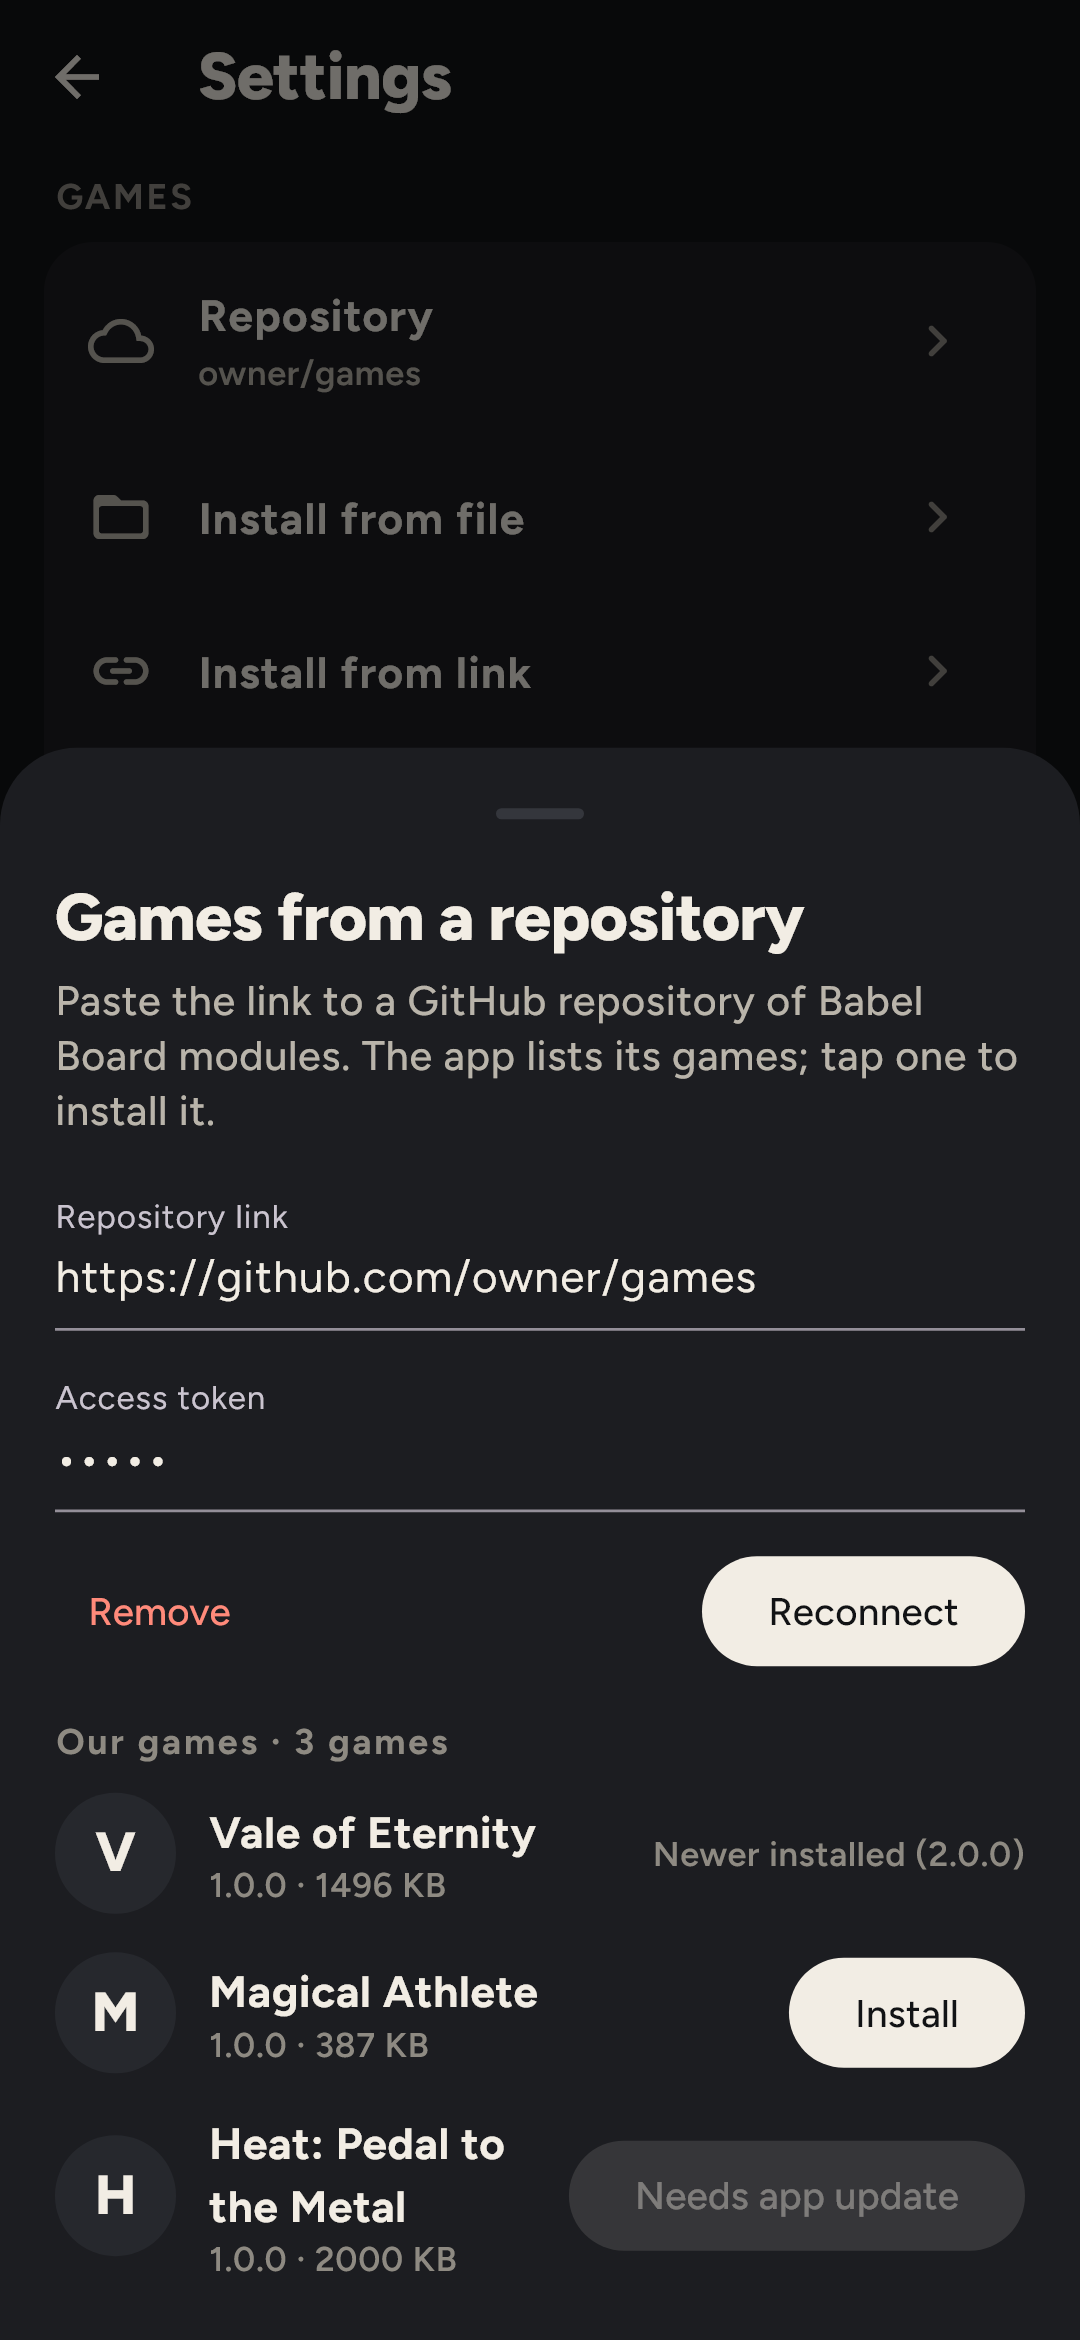
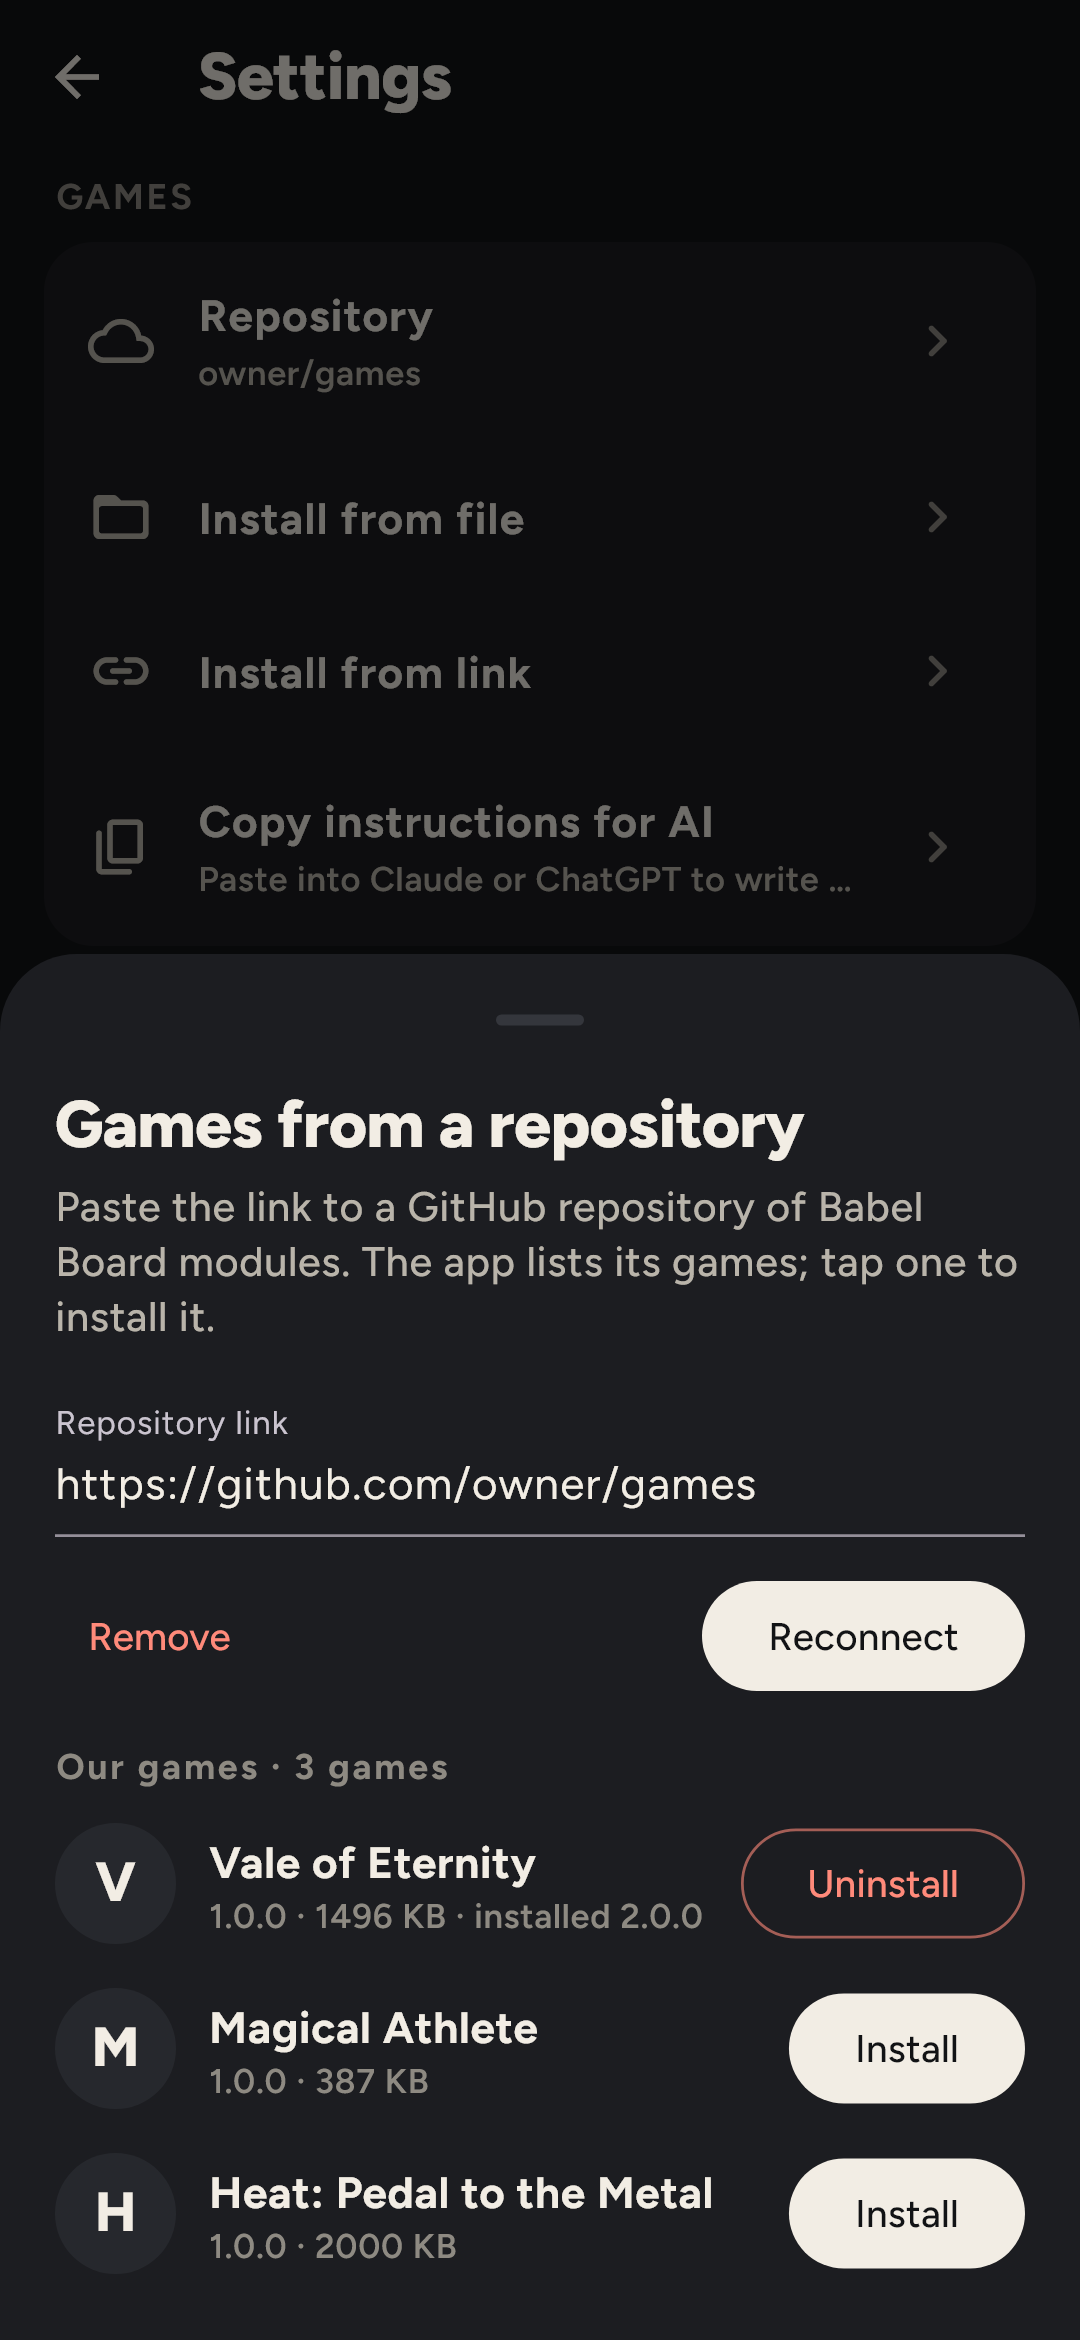
feat: repositories need no token; rows read Install, Update or Uninstall
The repository sheet is just the link and Connect. A game's row has one button: Install,
then Update when the repository lists a newer version, else Uninstall (with a confirm).
The row also says which version is installed. Docs no longer mention tokens. 3.1.1.

Changed region(s): [[0.0306, 0.3432, 0.9472, 0.7487], [0.0611, 0.6863, 0.9472, 0.9671], [0.0917, 0.8423, 0.1222, 0.9671]]

diff --git a/lib/library/library_screen.dart b/lib/library/library_screen.dart
@@ -247,8 +247,6 @@ class _RepoSheet extends StatefulWidget {
 
 class _RepoSheetState extends State<_RepoSheet> {
   late final _url = TextEditingController(text: _initialUrl());
-  late final _token = TextEditingController(text: widget.lib.repo?.token ?? '');
-  late bool _showToken = widget.lib.repo?.token != null;
   String? _error;
   bool _busy = false;
 
@@ -265,7 +263,6 @@ class _RepoSheetState extends State<_RepoSheet> {
   @override
   void dispose() {
     _url.dispose();
-    _token.dispose();
     super.dispose();
   }
 
@@ -275,7 +272,7 @@ class _RepoSheetState extends State<_RepoSheet> {
       _error = null;
     });
     try {
-      await widget.lib.connectRepo(_url.text, token: _token.text.trim());
+      await widget.lib.connectRepo(_url.text);
     } on RepoException catch (e) {
       if (mounted) setState(() => _error = e.message);
     } finally {
@@ -313,26 +310,6 @@ class _RepoSheetState extends State<_RepoSheet> {
               hintText: 'https://github.com/you/your-games',
             ),
           ),
-          if (_showToken) ...[
-            const SizedBox(height: 10),
-            TextField(
-              key: const Key('repoToken'),
-              controller: _token,
-              obscureText: true,
-              decoration: const InputDecoration(
-                labelText: 'Access token',
-                hintText: 'only for a private repository',
-              ),
-            ),
-          ] else
-            Align(
-              alignment: Alignment.centerLeft,
-              child: TextButton(
-                key: const Key('repoPrivate'),
-                onPressed: () => setState(() => _showToken = true),
-                child: const Text('Private repository? Add a token'),
-              ),
-            ),
           if (_error != null) ...[
             const SizedBox(height: 8),
             Text(_error!, style: T.caption.copyWith(color: p.danger, fontSize: 13.5)),
@@ -493,22 +470,24 @@ class _RepoRow extends StatelessWidget {
   Widget build(BuildContext context) {
     final p = context.pal;
     final have = lib.installedById(entry.id);
+    final busy = lib.busy != null;
+    // One button per row: Install, then Update when the repository has a newer version,
+    // else Uninstall.
     final Widget action;
     if (entry.needsAppUpdate) {
       action = const FilledButton(onPressed: null, child: Text('Needs app update'));
-    } else if (have != null && compareVersions(have.version, entry.version) >= 0) {
-      // Say which version is here: the repository may list an older one than the installed.
-      final newer = compareVersions(have.version, entry.version) > 0;
-      action = Text(
-        newer ? 'Newer installed (${have.version})' : '${have.version} installed',
-        style: T.caption.copyWith(color: p.muted),
-      );
+    } else if (have == null) {
+      action = FilledButton(onPressed: busy ? null : () => _install(context), child: const Text('Install'));
+    } else if (compareVersions(have.version, entry.version) < 0) {
+      action = FilledButton(onPressed: busy ? null : () => _install(context), child: const Text('Update'));
     } else {
-      action = FilledButton(
-        onPressed: lib.busy != null ? null : () => _install(context),
-        child: Text(have == null ? 'Install' : 'Update'),
+      action = OutlinedButton(
+        onPressed: busy ? null : () => _uninstall(context),
+        style: OutlinedButton.styleFrom(foregroundColor: p.danger, side: BorderSide(color: p.danger.withValues(alpha: 0.6))),
+        child: const Text('Uninstall'),
       );
     }
+    final installed = have == null ? '' : ' · installed ${have.version}';
     final size = entry.size > 0 ? ' · ${(entry.size / 1024).round()} KB' : '';
     return Padding(
       padding: const EdgeInsets.symmetric(vertical: 6),
@@ -521,7 +500,7 @@ class _RepoRow extends StatelessWidget {
               crossAxisAlignment: CrossAxisAlignment.start,
               children: [
                 Text(entry.name, style: const TextStyle(fontSize: 16, fontWeight: FontWeight.w700)),
-                Text('${entry.version}$size', style: T.caption.copyWith(color: p.muted)),
+                Text('${entry.version}$size$installed', style: T.caption.copyWith(color: p.muted)),
               ],
             ),
           ),
@@ -530,6 +509,16 @@ class _RepoRow extends StatelessWidget {
         ],
       ),
     );
+  }
+
+  Future<void> _uninstall(BuildContext context) async {
+    final ok = await confirm(
+      context,
+      'Uninstall ${entry.name}?',
+      'Removes the game and everything you tracked in it.',
+      'Uninstall',
+    );
+    if (ok) await lib.uninstall(entry.id);
   }
 
   Future<void> _install(BuildContext context) async {

diff --git a/test/library/library_screen_test.dart b/test/library/library_screen_test.dart
@@ -330,7 +330,7 @@ void main() {
     );
     await tester.tap(find.widgetWithText(FilledButton, 'Add repository'));
     await tester.pumpAndSettle();
-    expect(find.byKey(const Key('repoToken')), findsNothing, reason: 'the token is folded away until asked for');
+    expect(find.textContaining('token'), findsNothing, reason: 'no token anywhere: just the link');
     await tester.enterText(find.byKey(const Key('repoUrl')), 'github.com/you/games');
     await tester.tap(find.byKey(const Key('connectRepo')));
     await settleAsync(tester);
@@ -342,17 +342,44 @@ void main() {
     await tester.tap(find.descendant(of: sheet, matching: find.widgetWithText(FilledButton, 'Install')).first);
     await settleAsync(tester);
     expect(library(tester).installedById('mini'), isNotNull);
-    expect(find.descendant(of: sheet, matching: find.text('1.0.0 installed')), findsOneWidget);
+    // Installed and current: the button is now Uninstall; the row says what is installed.
+    expect(find.descendant(of: sheet, matching: find.widgetWithText(FilledButton, 'Install')), findsNothing);
+    final uninstall = find.descendant(of: sheet, matching: find.widgetWithText(OutlinedButton, 'Uninstall')).first;
+    expect(uninstall, findsOneWidget);
+    expect(find.descendant(of: sheet, matching: find.textContaining('installed 1.0.0')), findsOneWidget);
+    await tester.tap(uninstall);
+    await tester.pumpAndSettle();
+    await tester.tap(find.widgetWithText(FilledButton, 'Uninstall'));
+    await settleAsync(tester);
+    expect(library(tester).installedById('mini'), isNull);
+    expect(find.descendant(of: sheet, matching: find.widgetWithText(FilledButton, 'Install')), findsWidgets);
   });
 
-  testWidgets('the repository sheet reports a link with no index, and unfolds the token field', (tester) async {
+  testWidgets('a newer version in the repository turns the button into Update', (tester) async {
+    await pumpLibrary(
+      tester,
+      preinstalled: [miniZip()],
+      repoIndex: {
+        'name': 'Our games',
+        'modules': [
+          {'id': 'mini', 'name': 'Mini Game', 'version': '1.1.0', 'minAppVersion': '3.0.0', 'zip': 'mini.zip', 'size': 1},
+        ],
+      },
+      zips: {'mini.zip': miniZip(version: '1.1.0')},
+    );
+    await settleAsync(tester);
+    expect(find.widgetWithText(FilledButton, 'Update'), findsOneWidget);
+    await tester.tap(find.widgetWithText(FilledButton, 'Update'));
+    await settleAsync(tester);
+    expect(library(tester).installedById('mini')?.version, '1.1.0');
+    expect(find.widgetWithText(OutlinedButton, 'Uninstall'), findsOneWidget);
+  });
+
+  testWidgets('the repository sheet reports a link with no index, and a non-link', (tester) async {
     await pumpLibrary(tester);
     await tester.tap(find.widgetWithText(FilledButton, 'Add repository'));
     await tester.pumpAndSettle();
-    await tester.tap(find.byKey(const Key('repoPrivate')));
-    await tester.pumpAndSettle();
     await tester.enterText(find.byKey(const Key('repoUrl')), 'https://nowhere.example/index.json');
-    await tester.enterText(find.byKey(const Key('repoToken')), 'abc');
     await tester.tap(find.byKey(const Key('connectRepo')));
     await settleAsync(tester);
     expect(find.textContaining("Couldn't find index.json"), findsOneWidget);

diff --git a/test/library/settings_screen_test.dart b/test/library/settings_screen_test.dart
@@ -31,7 +31,7 @@ void main() {
       'Card size',
       'Flowing family grid',
       'Copy instructions for AI',
-      'Babel Board 3.1.0',
+      'Babel Board 3.1.1',
     ]) {
       await tester.scrollUntilVisible(find.text(t), 100, scrollable: find.byType(Scrollable).first);
       expect(find.text(t), findsOneWidget, reason: t);

diff --git a/test/module_format/manifest_test.dart b/test/module_format/manifest_test.dart
@@ -45,7 +45,7 @@ Map<String, dynamic> minimalManifest() => {
 
 void main() {
   test('app version and format constants', () {
-    expect(kAppVersion, '3.1.0');
+    expect(kAppVersion, '3.1.1');
     expect(kModuleFormat, 1);
     expect(kBlockTypes, {'gallery', 'board', 'zone', 'cardList', 'flow', 'step', 'text'});
   });

diff --git a/lib/app_version.dart b/lib/app_version.dart
@@ -1,3 +1,3 @@
 /// The app's own version (also in pubspec.yaml) and the module format it understands.
-const String kAppVersion = '3.1.0';
+const String kAppVersion = '3.1.1';
 const int kModuleFormat = 1;

diff --git a/README.md b/README.md
@@ -72,9 +72,9 @@ flutter build apk --release --split-per-abi
 ```
 
 Install `build/app/outputs/flutter-apk/app-arm64-v8a-release.apk`. Then add games: Settings →
-Repository, paste the link to a GitHub repository of packed modules, tap Connect, and pick
-the games to install. A private repository also wants a read-only token; a file or a direct
-link works too.
+Repository, paste the link to a GitHub repository of packed modules, tap Connect, and tap
+Install on the games you want. The button turns into Update when the repository has a newer
+version, or Uninstall. A file or a direct link works too.
 
 A web preview of the bundled games, for looking without a phone:
 
@@ -90,8 +90,7 @@ then serve `build/web` (for example `node tool/serve.mjs build/web 8765`).
 
 ## Sharing modules with friends
 
-Pack the module folders into a private GitHub repository and give each friend a read-only
-token for it:
+Pack the module folders into a GitHub repository and give friends its link:
 
 ```bash
 dart run tool/pack.dart modules ../babel-board-modules --name "Our games"

diff --git a/docs/CREATING_MODULES.md b/docs/CREATING_MODULES.md
@@ -107,13 +107,11 @@ app runs the same checks at install. A green validator means the module will dra
 
    This validates each module, writes `<id>-<version>.zip`, copies icons, and writes
    `index.json` with relative links.
-2. Put that folder in a **private** GitHub repository and push.
-3. Give each friend a fine-grained personal access token for that one repository with
-   **Contents: Read-only** and nothing else.
-4. In the app: Settings → Repository. Paste the repository link
+2. Put that folder in a GitHub repository and push.
+3. In the app: Settings → Repository. Paste the repository link
    (`https://github.com/<owner>/<repo>`), tap **Connect**, and the games appear with Install
-   buttons. A private repository also needs the token ("Private repository? Add a token").
-   The app offers updates whenever a `version` rises.
+   buttons. Installed games show Update when the repository has a newer `version`, else
+   Uninstall.
 
 ## When something is wrong
 
